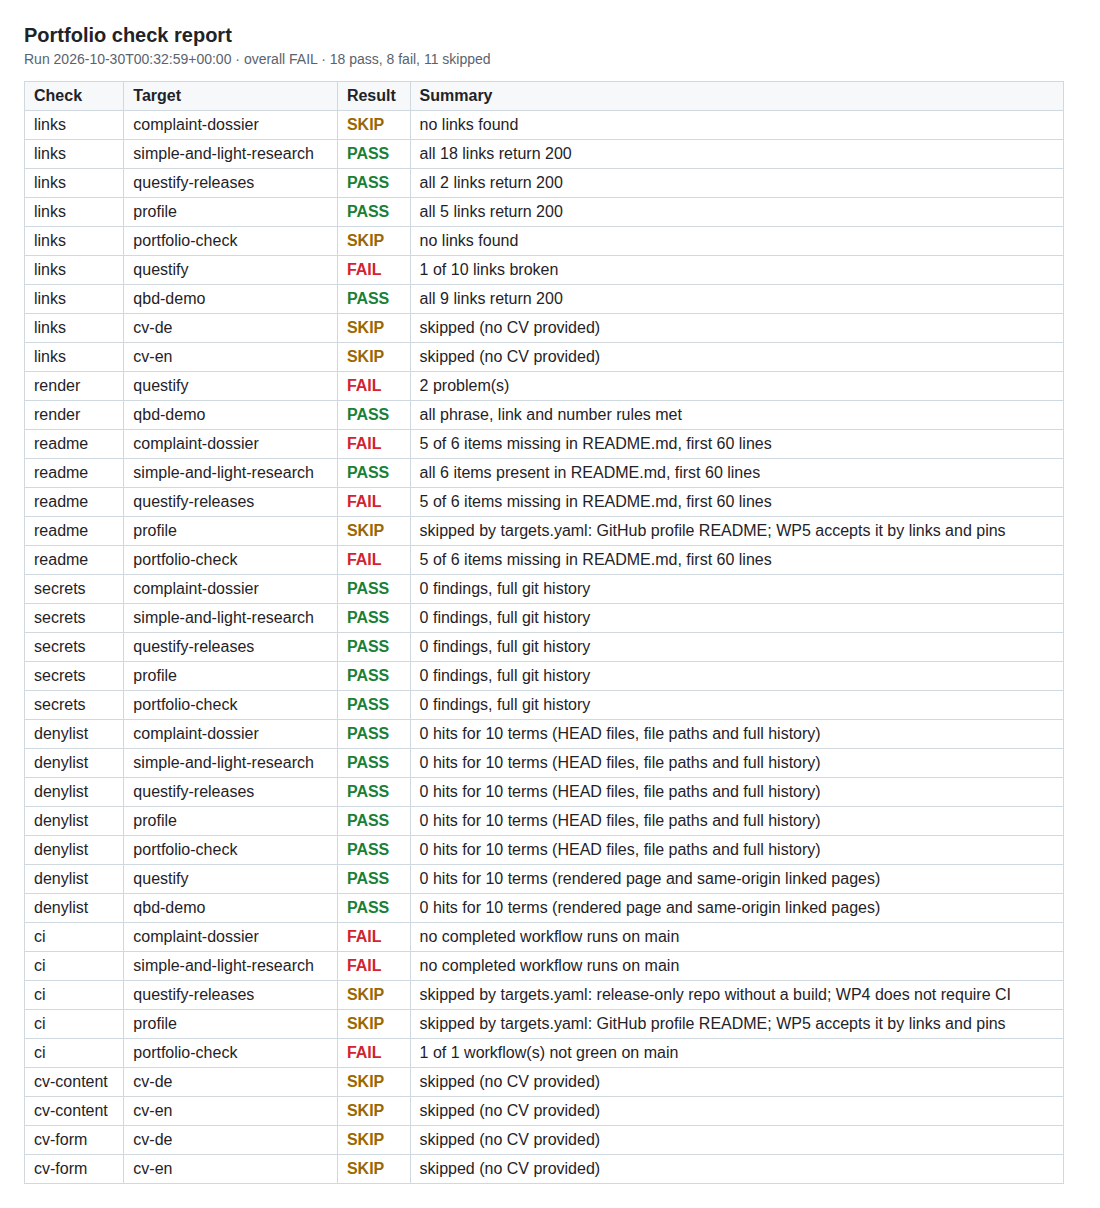
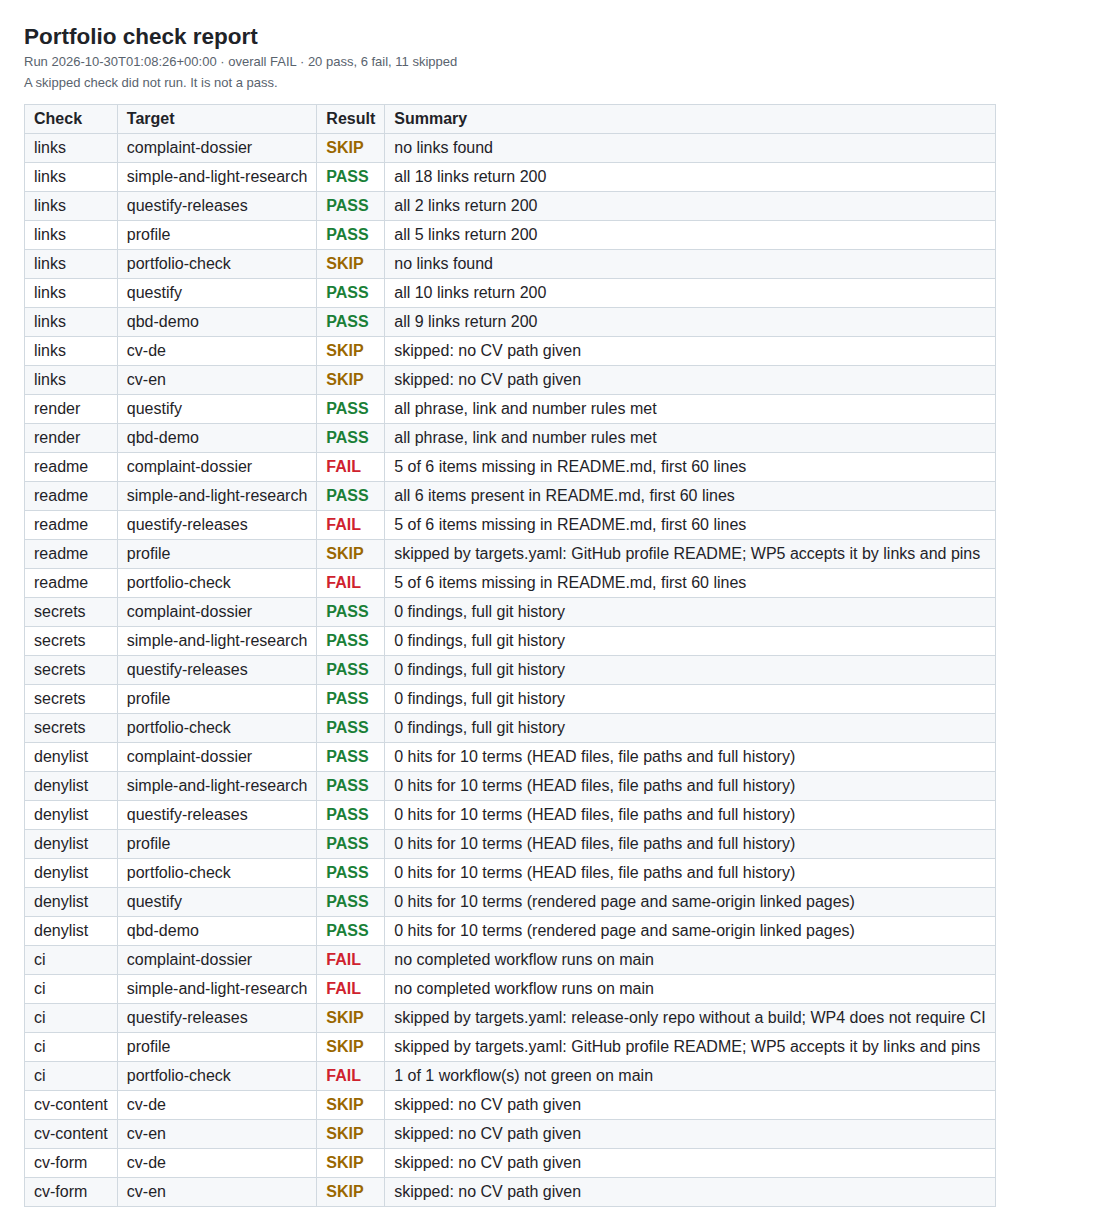
Make CV form check usable on real CVs and mark CI skips as not passed
- LanguageTool now gets one block per paragraph and per tab column, so a
  heading and the next line are no longer read as one sentence.
- --allowlist-file / PORTFOLIO_ALLOWLIST adds private exceptions (names,
  address) that must not be committed; "span: TEXT" exempts an exact passage.
- The German GAMP claim also accepts "nach den Grundsätzen von GAMP 5".
- Missing CVs report "skipped: no CV path given"; report.md states that a
  skip is not a pass. README sample image regenerated.

Changed region(s): [[0.0309, 0.0, 0.9273, 0.9801]]

diff --git a/portfolio_check/checks/cv_form.py b/portfolio_check/checks/cv_form.py
@@ -22,6 +22,33 @@ from .cv_content import cv_precheck
 NAME = "cv-form"
 CHUNK = 15_000
 URLISH = re.compile(r"(https?://|www\.|@|\.com\b|\.de\b|\.app\b)", re.I)
+BULLET_ONLY = re.compile(r"^[•·▪◦*–-]$")
+
+
+def spellcheck_text(text: str) -> str:
+    """One block per paragraph and per tab-separated column, blank line between blocks.
+
+    LanguageTool reads a single newline or a tab as a space, so a heading followed by a
+    capitalised word ("PROJECTS Released") or a date column next to a name would look
+    like one sentence. A blank line ends the sentence, the way a reader sees the layout.
+    """
+    blocks = []
+    for line in text.split("\n"):
+        for part in line.split("\t"):
+            part = part.strip()
+            if part and not BULLET_ONLY.match(part):
+                blocks.append(part)
+    return "\n\n".join(blocks)
+
+
+def _in_span(chunk: str, offset: int, length: int, spans: list[str]) -> bool:
+    for span in spans:
+        start = chunk.find(span)
+        while start != -1:
+            if start <= offset and offset + length <= start + len(span):
+                return True
+            start = chunk.find(span, start + 1)
+    return False
 
 
 def pdf_pages(ctx, docx: Path) -> tuple[int, Path]:
@@ -47,19 +74,24 @@ def pdf_pages(ctx, docx: Path) -> tuple[int, Path]:
 
 def _chunks(text: str) -> list[str]:
     out, cur = [], ""
-    for para in text.split("\n"):
-        if len(cur) + len(para) + 1 > CHUNK and cur:
+    for para in text.split("\n\n"):
+        if len(cur) + len(para) + 2 > CHUNK and cur:
             out.append(cur)
             cur = ""
-        cur += para + "\n"
+        cur += para + "\n\n"
     if cur.strip():
         out.append(cur)
     return out
 
 
 def language_issues(ctx, text: str, language: str, allowlist: list[str], ignore_rules: list[str]) -> list[str]:
-    """LanguageTool matches that are not allowlisted. Raises RuntimeError."""
-    allowed = {a.lower() for a in allowlist}
+    """LanguageTool matches that are not allowlisted. Raises RuntimeError.
+
+    Allowlist lines are single terms (case-insensitive), or "span: TEXT" to exempt an exact
+    passage such as a citation in another language.
+    """
+    spans = [a[5:].strip() for a in allowlist if a.startswith("span:")]
+    allowed = {a.lower() for a in allowlist if not a.startswith("span:")}
     issues: list[str] = []
     for chunk in _chunks(text):
         try:
@@ -78,6 +110,8 @@ def language_issues(ctx, text: str, language: str, allowlist: list[str], ignore_
             if rule in ignore_rules:
                 continue
             if token.lower().strip(".,;:()") in allowed or URLISH.search(token):
+                continue
+            if _in_span(chunk, m["offset"], m["length"], spans):
                 continue
             context = m.get("context", {}).get("text", "").strip()
             issues.append(f"{rule}: {m.get('message', '')} [{token!r} in {context!r}]")
@@ -110,7 +144,7 @@ def run(ctx, cv):
     lt = rules.get("languagetool", {})
     try:
         issues = language_issues(
-            ctx, docx_text(path), cv.language, ctx.config.allowlist, lt.get("ignore_rules", [])
+            ctx, spellcheck_text(docx_text(path)), cv.language, ctx.config.allowlist, lt.get("ignore_rules", [])
         )
         if issues:
             problems.append(f"LanguageTool ({cv.language}): {len(issues)} issue(s)")

diff --git a/portfolio_check/cli.py b/portfolio_check/cli.py
@@ -13,7 +13,7 @@ from pathlib import Path
 from . import __version__
 from .checks import CHECKS, canonical
 from .checks.denylist import load_terms
-from .config import load_config
+from .config import load_config, read_allowlist
 from .context import Context
 from .report import counts, write_reports
 from .result import FAIL, SKIP, CheckResult
@@ -36,6 +36,9 @@ def build_parser() -> argparse.ArgumentParser:
                    help="use a local checkout (repo) or file (CV) instead of the public source; repeatable")
     p.add_argument("--cv-de", metavar="PATH", help="German CV .docx (or env PORTFOLIO_CV_DE)")
     p.add_argument("--cv-en", metavar="PATH", help="English CV .docx (or env PORTFOLIO_CV_EN)")
+    p.add_argument("--allowlist-file", action="append", default=[], metavar="FILE",
+                   help="extra LanguageTool allowlist kept outside the repo (names, addresses); "
+                        "repeatable, or env PORTFOLIO_ALLOWLIST")
     p.add_argument("--require-cv", action="store_true", help="fail CV checks when no CV file is found instead of skipping")
     p.add_argument("--list", action="store_true", help="list checks and targets, then exit")
     p.add_argument("--version", action="version", version=f"portfolio-check {__version__}")
@@ -95,6 +98,16 @@ def main(argv: list[str] | None = None) -> int:
         local["cv-de"] = Path(args.cv_de).expanduser().resolve()
     if args.cv_en:
         local["cv-en"] = Path(args.cv_en).expanduser().resolve()
+
+    extra_allow = list(args.allowlist_file)
+    if os.environ.get("PORTFOLIO_ALLOWLIST"):
+        extra_allow.append(os.environ["PORTFOLIO_ALLOWLIST"])
+    for item in extra_allow:
+        path = Path(item).expanduser()
+        if not path.is_file():
+            print(f"allowlist file not found: {path}", file=sys.stderr)
+            return 2
+        config.allowlist.extend(read_allowlist(path))
 
     if args.denylist_file:
         terms = load_terms(Path(args.denylist_file).read_text(encoding="utf-8"))

diff --git a/tests/test_cli.py b/tests/test_cli.py
@@ -42,6 +42,7 @@ def test_any_failure_exits_1(tmp_path):
     assert main([*args, "--check", "readme"]) == 1
     report = json.loads((tmp_path / "out" / "report.json").read_text())
     assert report["counts"] == {"pass": 1, "fail": 1, "skip": 1}
+    assert "A skipped check did not run. It is not a pass." in (tmp_path / "out" / "report.md").read_text()
 
 
 def test_unknown_check_or_target_exits_2(tmp_path):
@@ -58,3 +59,22 @@ def test_shipped_targets_file_loads():
     qbd = config.target("qbd-demo")
     assert qbd.min_numbers == 4 and "Keine Messwerte" in qbd.forbidden_phrases
     assert config.cv_rules["max_pages"] == 2
+
+
+def test_allowlist_file_extends_the_allowlist(tmp_path, monkeypatch):
+    args = _setup(tmp_path)
+    private = tmp_path / "private-allowlist.txt"
+    private.write_text("# names that stay out of the repo\nMusterstrasse\n")
+    seen = {}
+    import portfolio_check.cli as cli
+
+    real = cli.Context
+
+    def spy(**kw):
+        seen["allowlist"] = list(kw["config"].allowlist)
+        return real(**kw)
+
+    monkeypatch.setattr(cli, "Context", spy)
+    assert main([*args, "--check", "readme", "--target", "good", "--allowlist-file", str(private)]) == 0
+    assert "Musterstrasse" in seen["allowlist"]
+    assert main([*args, "--check", "readme", "--allowlist-file", str(tmp_path / "missing.txt")]) == 2

diff --git a/tests/test_cv_form.py b/tests/test_cv_form.py
@@ -71,3 +71,26 @@ def test_cv_form_fails_when_languagetool_is_down(ctx, cv, monkeypatch):
     ctx.http.post = lambda *a, **k: FakeResponse(status=503, text="busy")
     result = cv_form.run(ctx, cv)
     assert result.status == FAIL and any("spelling check unavailable" in e for e in result.evidence)
+
+
+def test_spellcheck_text_splits_paragraphs_and_tab_columns():
+    text = "PROJECTS\nReleased\tQuestify web app\n•\tBullet text"
+    assert cv_form.spellcheck_text(text) == "PROJECTS\n\nReleased\n\nQuestify web app\n\nBullet text"
+
+
+def test_span_allowlist_exempts_a_quoted_passage_only(ctx, cv, monkeypatch):
+    monkeypatch.setattr(cv_form, "pdf_pages", _pages(1))
+    ctx.config.allowlist.append("span: German, English.")
+
+    def matches(text):
+        inside = text.index("German")
+        outside = text.index("Pharmacy")
+        return [
+            {"offset": inside, "length": 6, "rule": {"id": "TYPO"}, "message": "typo"},
+            {"offset": outside, "length": 8, "rule": {"id": "TYPO"}, "message": "typo"},
+        ]
+
+    ctx.http.post = _lt(matches)
+    result = cv_form.run(ctx, cv)
+    issues = [e for e in result.evidence if e.startswith("  TYPO")]
+    assert result.status == FAIL and len(issues) == 1 and "Pharmacy" in issues[0]

diff --git a/portfolio_check/config.py b/portfolio_check/config.py
@@ -70,6 +70,16 @@ class Config:
         raise KeyError(name)
 
 
+def read_allowlist(path: Path) -> list[str]:
+    """Allowlist lines: one term per line, or "span: TEXT" for an exact passage. # starts a comment."""
+    out: list[str] = []
+    for line in Path(path).read_text(encoding="utf-8").splitlines():
+        line = line.strip()
+        if line and not line.startswith("#"):
+            out.append(line)
+    return out
+
+
 def _load_yaml(path: Path) -> dict:
     with path.open(encoding="utf-8") as fh:
         return yaml.safe_load(fh) or {}
@@ -94,12 +104,7 @@ def load_config(path: str | Path) -> Config:
     cv_rules = _load_yaml(root / rules_file) if (root / rules_file).exists() else {}
 
     allow_file = settings.get("languagetool_allowlist", "allowlist.txt")
-    allowlist: list[str] = []
-    if (root / allow_file).exists():
-        for line in (root / allow_file).read_text(encoding="utf-8").splitlines():
-            line = line.strip()
-            if line and not line.startswith("#"):
-                allowlist.append(line)
+    allowlist = read_allowlist(root / allow_file) if (root / allow_file).exists() else []
 
     return Config(
         root=root,

diff --git a/tests/test_cv_content.py b/tests/test_cv_content.py
@@ -23,7 +23,9 @@ def test_cv_content_fails_on_forbidden_wording_and_missing_claims(ctx, tmp_path)
 
 
 def test_cv_skipped_when_not_provided(ctx):
-    assert cv_content.run(ctx, ctx.config.cvs[0]).status == SKIP
+    result = cv_content.run(ctx, ctx.config.cvs[0])
+    assert result.status == SKIP
+    assert result.summary == "skipped: no CV path given"
 
 
 def test_cv_fails_when_not_provided_and_required(ctx):
@@ -35,3 +37,13 @@ def test_cv_fails_when_explicit_path_missing(ctx, tmp_path, monkeypatch):
     monkeypatch.setenv("TEST_CV_EN", str(tmp_path / "nope.docx"))
     result = cv_content.run(ctx, ctx.config.cvs[0])
     assert result.status == FAIL and result.summary.startswith("file missing")
+
+
+def test_german_gamp_wording_variants_match(ctx):
+    rules = ctx.config.cv_rules
+    pattern = next(c for c in rules["claims"] if c["id"] == "gamp-wording")["de"][0]
+    import re
+
+    for wording in ("Entworfen nach den Grundsätzen von GAMP 5.", "nach GAMP-5-Prinzipien entworfen"):
+        assert re.search(pattern, wording, re.I), wording
+    assert not re.search(pattern, "GAMP-5-konform", re.I)

diff --git a/portfolio_check/checks/cv_content.py b/portfolio_check/checks/cv_content.py
@@ -24,8 +24,11 @@ def cv_precheck(ctx, cv, check_name):
     return skipped(
         check_name,
         cv.name,
-        "skipped (no CV provided)",
-        [f"default path {cv.path} not present; pass --{cv.name} PATH or set {cv.env or 'the env var'}"],
+        "skipped: no CV path given",
+        [
+            "not a pass: this check did not run",
+            f"default path {cv.path} not present; pass --{cv.name} PATH or set {cv.env or 'the env var'}",
+        ],
     )
 
 

diff --git a/portfolio_check/report.py b/portfolio_check/report.py
@@ -40,6 +40,10 @@ def write_reports(results: list[CheckResult], out_dir: Path, meta: dict) -> tupl
         f"Run {started} · overall **{overall.upper()}** · "
         f"{c[PASS]} pass, {c[FAIL]} fail, {c[SKIP]} skipped",
         "",
+    ]
+    if c[SKIP]:
+        lines += ["A skipped check did not run. It is not a pass.", ""]
+    lines += [
         "| Check | Target | Result | Summary |",
         "| --- | --- | --- | --- |",
     ]

diff --git a/README.md b/README.md
@@ -41,7 +41,7 @@ Python 3.10+, requests, Playwright with Chromium, gitleaks, python-docx, LibreOf
 
 - The README check looks for headings and labels. It cannot tell whether the text under them is any good.
 - CV text goes to the public LanguageTool API unless `LANGUAGETOOL_URL` points to a self-hosted server. The public API also has a rate limit.
-- CV files hold personal data and are not stored here, so CI skips the CV checks. They run on my machine.
+- CV files hold personal data and are not stored here. In CI the CV checks therefore report `skipped: no CV path given`, and the report says that a skip is not a pass. I run them on my machine before sending a CV.
 - Any status other than 200 counts as broken, including sites that block automated requests.
 - Denylist matching is a plain substring search, so short terms also hit inside longer words. The report marks those hits.
 - GitHub cron runs in UTC, so the daily run starts at 06:00 Berlin time in winter and 07:00 in summer.
@@ -52,12 +52,15 @@ Python 3.10+, requests, Playwright with Chromium, gitleaks, python-docx, LibreOf
 python -m portfolio_check --all                       # everything, the default
 python -m portfolio_check --check NAME --target NAME  # one check, one target; both flags repeat
 python -m portfolio_check --list                      # checks and targets
+python -m portfolio_check --check cv-content --check cv-form --check links \
+    --target cv-de --target cv-en --cv-de PATH.docx --cv-en PATH.docx   # the CV checks
 ```
 
 Other options:
 
 - `--local NAME=PATH` checks a local checkout or file instead of the public source, for example `--local complaint-dossier=../complaint-dossier` before opening a pull request. Relative README links then have to exist in that folder.
 - `--cv-de PATH` and `--cv-en PATH` (or `PORTFOLIO_CV_DE` and `PORTFOLIO_CV_EN`) name the CV files. Without them the CV checks are skipped; `--require-cv` makes them fail instead.
+- `--allowlist-file PATH` (or `PORTFOLIO_ALLOWLIST`) adds LanguageTool exceptions that should not be public, such as employer names and my address. It uses the same format as `allowlist.txt`: one term per line, or `span: TEXT` to exempt an exact passage like a citation in another language.
 - `--denylist-file PATH` reads the private terms from a file. Otherwise they come from the `DENYLIST` environment variable, one term per line. Reports name a hit as "term #3", never the term itself.
 - `--out DIR` sets where reports, screenshots and the repo clone cache go.
 
